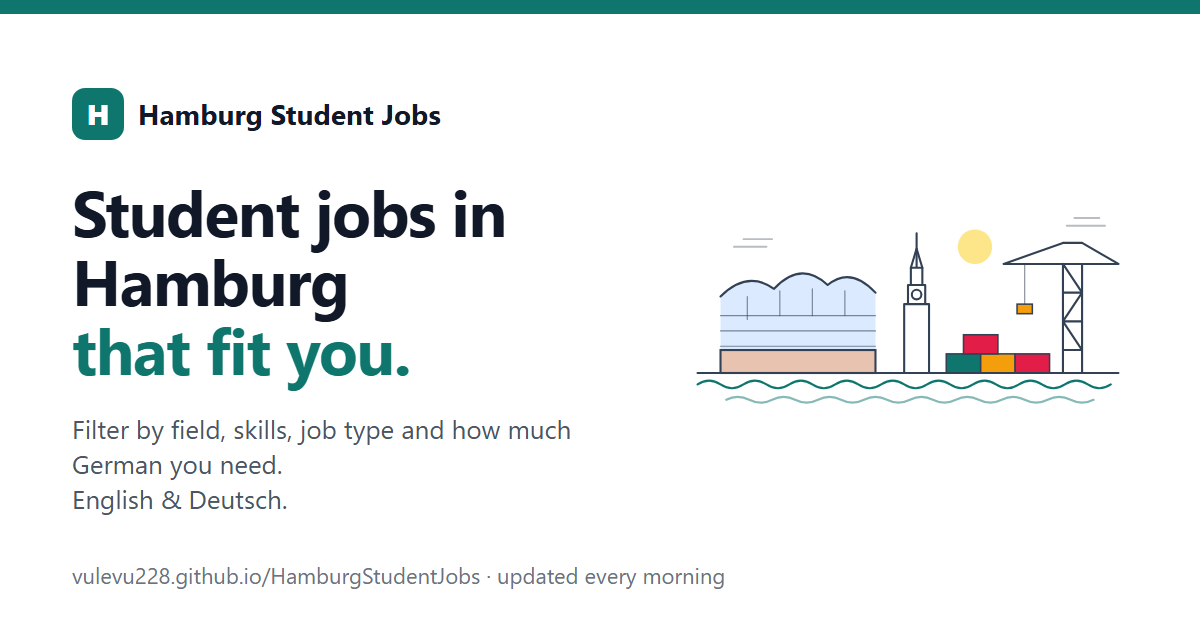
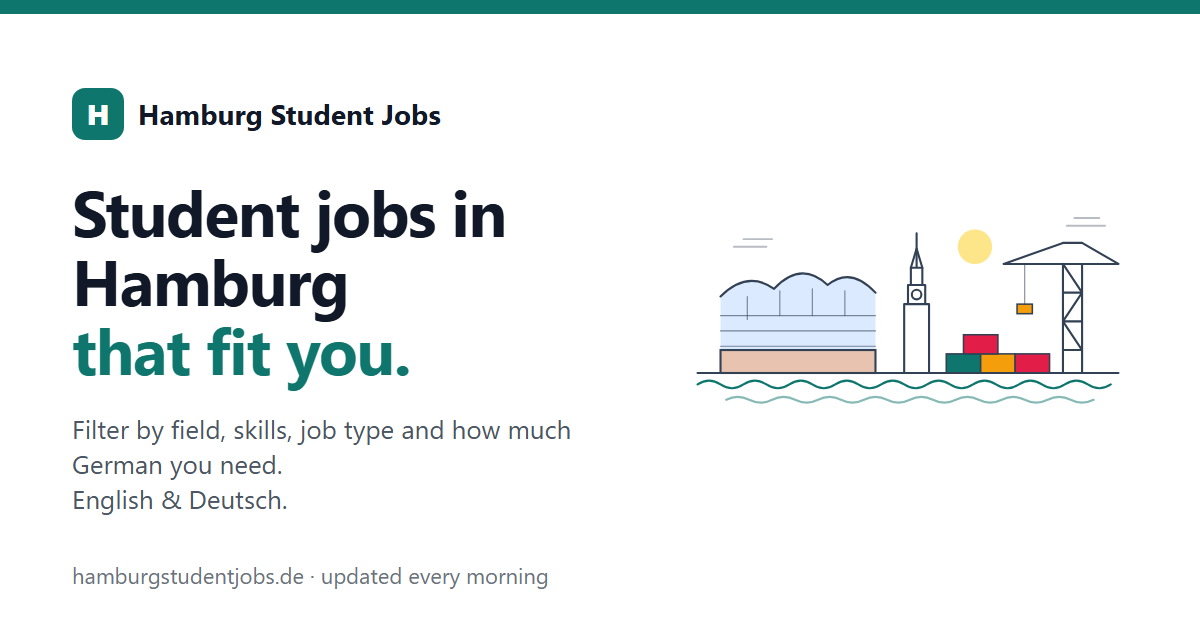
Custom domain hamburgstudentjobs.de: README link and link-preview image

Changed region(s): [[0.0617, 0.9048, 0.6167, 0.9349]]

diff --git a/assets/og.html b/assets/og.html
@@ -58,4 +58,4 @@ h1 span{color:#0f766e}
           <path d="M10 196 q12 -8 24 0 t24 0 t24 0 t24 0 t24 0 t24 0 t24 0 t24 0 t24 0 t24 0 t24 0 t24 0 t24 0 t24 0 t24 0 t24 0 t24 0 t24 0" class="water"/>
           <path d="M40 212 q12 -6 24 0 t24 0 t24 0 t24 0 t24 0 t24 0 t24 0 t24 0 t24 0 t24 0 t24 0 t24 0 t24 0 t24 0 t24 0 t24 0" class="water thin"/>
           <path d="M10 184h440" class="line"/>
-        </svg></div><div class="url">vulevu228.github.io/HamburgStudentJobs · updated every morning</div></body></html>
+        </svg></div><div class="url">hamburgstudentjobs.de · updated every morning</div></body></html>

diff --git a/README.md b/README.md
@@ -5,7 +5,7 @@ junior role from the Federal Employment Agency, Adzuna, Arbeitnow and company ca
 updated every morning, and filterable by field, skills, job type and how much German the ad really asks for.
 The site is available in English and German.
 
-Live site: **https://vulevu228.github.io/HamburgStudentJobs/**
+Live site: **https://hamburgstudentjobs.de/**
 
 ## What you can do on the site
 
